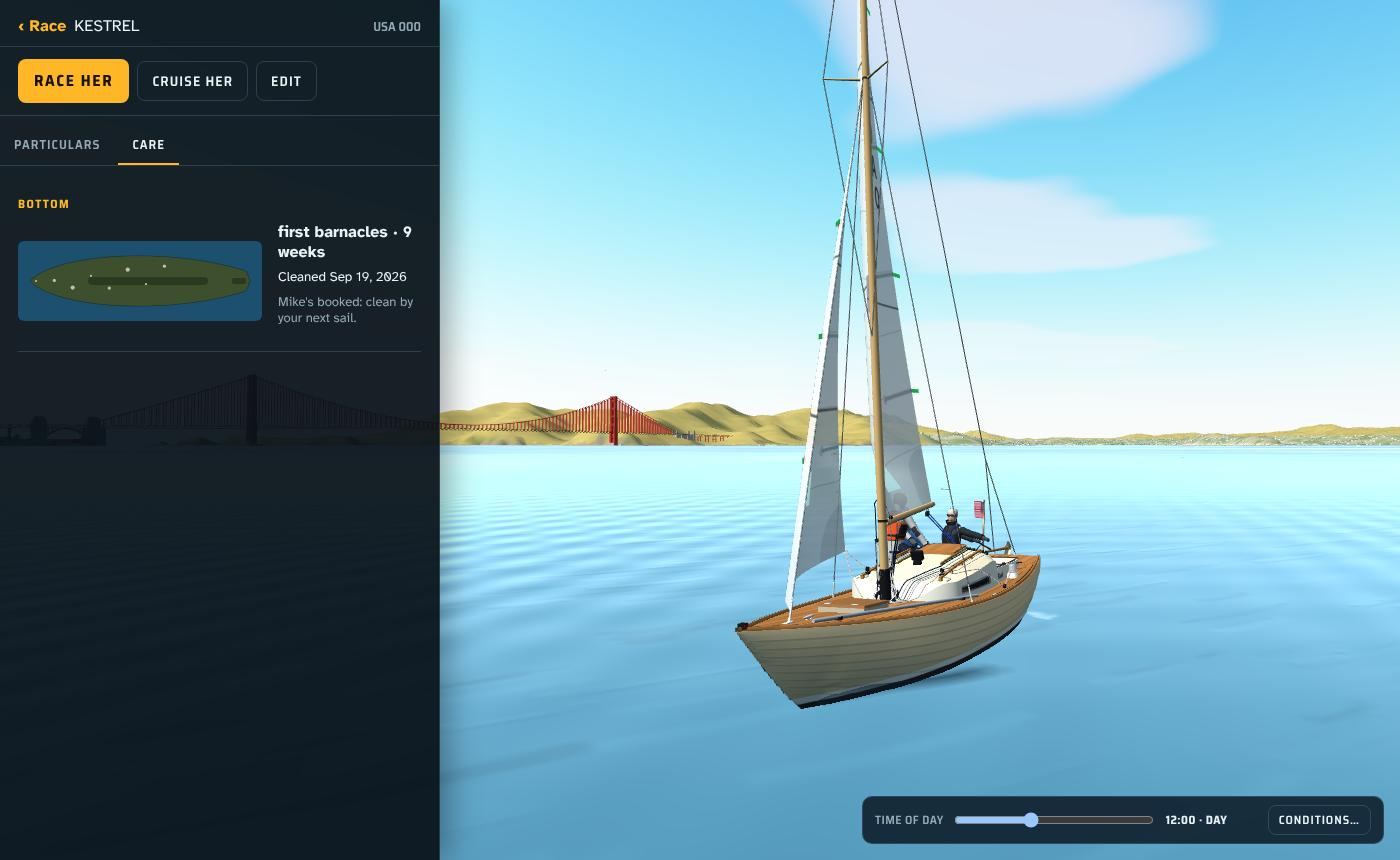
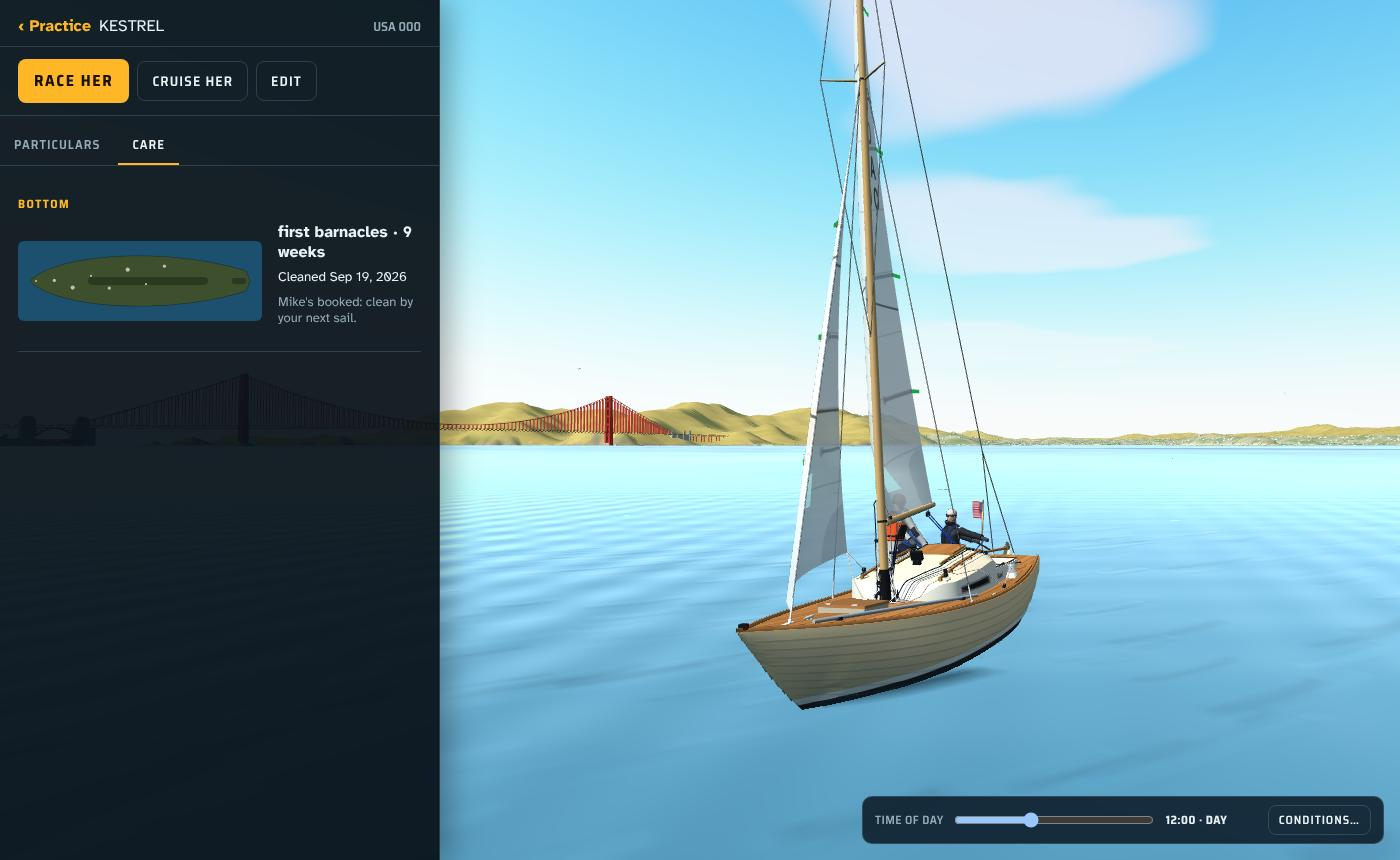
r294: her foul bottom in the setup's Boat row as it's closed, and the setup stills retaken at the Practice setup
The line under the crew showed only with the Boat row opened. Closed,
the row's summary now says "Bottom foul · 9 weeks" too, in the warning
color. care-setup-line.jpg was the Race chooser (the page check opened
Race but not Practice). It's retaken at the Practice setup:
care-setup-closed.jpg (the row's summary), care-setup.jpg (the row
open: the line and its Care link) and care-setup-line.jpg (the row
alone). scripts/check/care.cjs now fails if the line isn't there.

Claude-Session: https://claude.ai/code/session_012Uu5QhY7i2pxWmAtAggWhz

diff --git a/src/app/setup.ts b/src/app/setup.ts
@@ -407,7 +407,7 @@ function drawHeads(): void {
   const seat = (i: number, label: string) => seats[i] ? tile(initials(name(seats[i])), name(seats[i]), CLUB_TILE, { round: true }) : emptyTile(label, false, { round: true });
   const kg = ($('crewSum').textContent!.match(/([\d,]+)\s*lb/) || [])[1];
   set('boat', tile(bn, boat.name || 'Unnamed', boat.hull.upper, { country: bc, on: true }),
-    `<span class="t-group">${tile(initials(you), 'Helm', '#ffb627', { round: true })}${seat(0, 'Main')}${seat(1, 'Jib')}</span><span class="t-text">${kg ? `<span class="t-s">${kg} lb aboard</span>` : ''}${cruise || !$('drillView').hidden ? '' : `<span class="t-s">${S.raceFrom === 'slip' ? 'From her slip' : 'Starts at the line'}</span>`}</span>`);
+    `<span class="t-group">${tile(initials(you), 'Helm', '#ffb627', { round: true })}${seat(0, 'Main')}${seat(1, 'Jib')}</span><span class="t-text">${kg ? `<span class="t-s">${kg} lb aboard</span>` : ''}${cruise || !$('drillView').hidden ? '' : `<span class="t-s">${S.raceFrom === 'slip' ? 'From her slip' : 'Starts at the line'}</span>`}${(bn2 => bn2.foul && !boat.diverBooked ? `<span class="t-s warn">Bottom foul · ${bn2.weeks} weeks</span>` : '')(bottomNow(boat))}</span>`);
   // when: the day, and the gun (or when she leaves)
   const day = new Date(w.raceDate + 'T12:00');
   set('when', `<span class="t-date"><b>${day.getDate()}</b><small>${day.toLocaleDateString('en-US', { month: 'short' }).toUpperCase()}</small></span>`,

diff --git a/src/styles/10-setup-tight.css b/src/styles/10-setup-tight.css
@@ -80,3 +80,4 @@ button.t-av.dim:hover{opacity:.8}
 #drillView #raceFromRow,#drillView #raceFromNote{display:none}
 /* room under the When row while it's open, so it can scroll up and the date's calendar opens in full below it */
 .panel.whenroom{margin-bottom:380px}
+.t-text .t-s.warn{color:#ffb35c} /* her bottom foul, in the Boat row (r294) */
